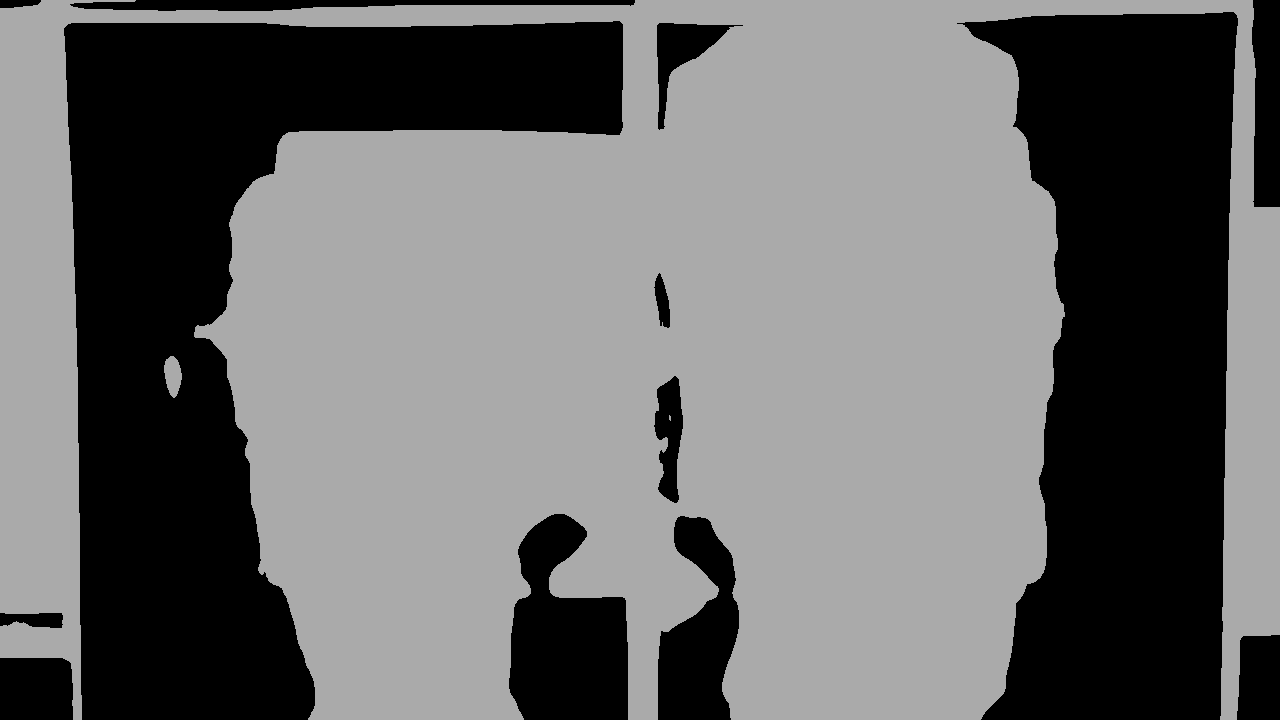
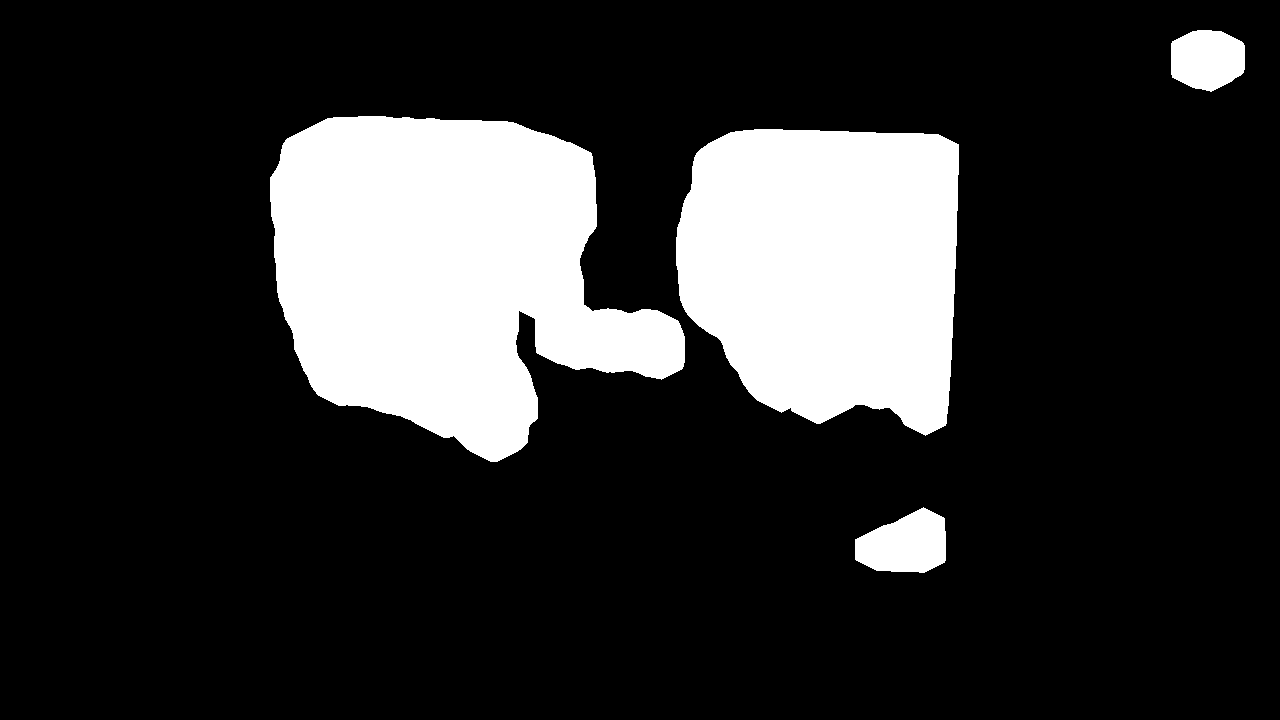
see you tomorrow

diff --git a/test2.py b/test2.py
@@ -27,17 +27,11 @@ CV_CAP_PROP_MODE = 9
 #CV_CAP_PROP_WHITE_BALANCE Currently not supported
 #CV_CAP_PROP_RECTIFICATION
 
-global per25_point1
-global per25_point2
-global per50_point1
-global per50_point2
-global per75_point1
-global per75_point2
-
 class ExperimentMetrics(object):
     square_25=square_50=square_75=square_100=dist_square_25=dist_square_50=dist_square_75=dist_square_100=square_num_bout=square_frame_bout=square_distance_bout=counter = 0
     last_known_point= [0,0]
     square_lap_bout = []
+    per25_point1 = per25_point2 = per50_point1 = per50_point2 = per75_point1 = per75_point2 = [0,0]
 
     # The class "constructor" - It's actually an initializer
     #def __init__():
@@ -73,12 +67,28 @@ frame_per_sec = cap.get(CV_CAP_PROP_FPS)
 print "Frame per sec"
 print frame_per_sec
 
+def draw_rect(pic,height,width,percentage):
+    w = int(width*percentage)
+    x = int((width-width*percentage)/2)
+    h = int(height*percentage)
+    y = int((height-height*percentage)/2)
+    cv2.rectangle(pic,(x,y),(x+w,y+h),(0,255,0),1)
+    return
 
-def analyze(frame,frame_name,frame2,x,y,square_25,square_50,square_75,square_100,
-    dist_square_25,dist_square_50,dist_square_75,dist_square_100,last_known_point,
-    num_bout,frame_bout,distance_bout,lap_bout,counter,exp_obj):
+
+def comp_tuple(mp,pt1,pt2):
+    return mp[0] >= pt1[0] and mp[0] <= pt2[0] and mp[1] >= pt1[1] and mp[1] <= pt2[1]
+
+def dist(pt1,pt2):
+    xd = pt2[0] - pt1[0]
+    yd = pt2[1] - pt1[1]
+    return math.sqrt(xd*xd + yd*yd)
+
+
+def analyze(frame,frame_name,frame2,x,y,exp_obj,width):
     # smooth it
     #cv2.imshow('before',frame)
+    #width = frame2.get(CV_CAP_PROP_FRAME_WIDTH)
     frame3 = cv2.blur(frame,(17,17))
     #cv2.imshow('blur',frame)
     # convert to hsv and find range of colors
@@ -104,7 +114,10 @@ def analyze(frame,frame_name,frame2,x,y,square_25,square_50,square_75,square_100
     draw_rect(frame,height,width,0.7)
     draw_rect(frame,height,width,0.45)
     draw_rect(frame,height,width,0.2)
-    cv2.imshow(frame_name,frame)
+    #x = exp_obj.per25_point1[0]
+    #y = exp_obj.per25_point1[1]
+    cv2.rectangle(frame,tuple(exp_obj.per25_point1),tuple(exp_obj.per25_point2),(255,0,0),1)
+    #cv2.imshow(frame_name,frame)
 
     # finding contour with maximum area and store it as best_cnt
     max_area = 0
@@ -160,7 +173,7 @@ def analyze(frame,frame_name,frame2,x,y,square_25,square_50,square_75,square_100
                 exp_obj.square_num_bout = exp_obj.square_num_bout + 1
                 exp_obj.square_lap_bout.append(0)
             if exp_obj.counter >= bout_threshold:
-                cv2.circle(frame,mp, 5, cv.CV_RGB(255,0,0))
+                cv2.circle(frame,mp, 5, cv.CV_RGB(255,0,255))
                 exp_obj.square_frame_bout = exp_obj.square_frame_bout + 1
                 exp_obj.square_distance_bout = exp_obj.square_distance_bout + distance
                 exp_obj.square_lap_bout[-1] = exp_obj.square_lap_bout[-1] +1
@@ -168,13 +181,13 @@ def analyze(frame,frame_name,frame2,x,y,square_25,square_50,square_75,square_100
             distance = 0
             exp_obj.counter = 0
 
-        if comp_tuple(mp,per25_point1,per25_point2):
+        if comp_tuple(mp,exp_obj.per25_point1,exp_obj.per25_point2):
             exp_obj.dist_square_25 = exp_obj.dist_square_25 + distance
             exp_obj.square_25 = exp_obj.square_25 + 1
-        elif comp_tuple(mp,per50_point1,per50_point2):
+        elif comp_tuple(mp,exp_obj.per50_point1,exp_obj.per50_point2):
             exp_obj.square_50 = exp_obj.square_50 + 1
             exp_obj.dist_square_50 = exp_obj.dist_square_50 + distance
-        elif comp_tuple(mp,per75_point1,per75_point2):
+        elif comp_tuple(mp,exp_obj.per75_point1,exp_obj.per75_point2):
             exp_obj.square_75 = exp_obj.square_75 + 1
             exp_obj.dist_square_75 = exp_obj.dist_square_75 + distance
         else:
@@ -186,11 +199,11 @@ def analyze(frame,frame_name,frame2,x,y,square_25,square_50,square_75,square_100
 
     if in_mid_points == 0:
         mp = exp_obj.last_known_point
-        if comp_tuple(mp,per25_point1,per25_point2):
+        if comp_tuple(mp,exp_obj.per25_point1,exp_obj.per25_point2):
             exp_obj.square_25 = exp_obj.square_25 + 1
-        elif comp_tuple(mp,per50_point1,per50_point2):
+        elif comp_tuple(mp,exp_obj.per50_point1,exp_obj.per50_point2):
             exp_obj.square_50 = exp_obj.square_50 + 1
-        elif comp_tuple(mp,per75_point1,per75_point2):
+        elif comp_tuple(mp,exp_obj.per75_point1,exp_obj.per75_point2):
             exp_obj.square_75 = exp_obj.square_75 + 1
         else:
             exp_obj.square_100 = exp_obj.square_100 + 1
@@ -205,28 +218,34 @@ def analyze(frame,frame_name,frame2,x,y,square_25,square_50,square_75,square_100
 
     # Show it, if key pressed is 'Esc', exit the loop
 
-    cv2.imshow('%sthresh' % (frame_name),thresh2)
-    cv2.imshow('%scontour' % (frame_name),frame2)
+    #cv2.imshow('%sthresh' % (frame_name),thresh2)
+    #cv2.imshow('%scontour' % (frame_name),frame2)
     cv2.imshow('%sframe' % (frame_name),frame)
-    return last_known_point
+    return
 
 _,frame2 = cap.read()
 imgray = cv2.blur(frame2,(15,15))
-imgray = cv2.cvtColor(imgray,cv2.COLOR_BGR2GRAY)
-ret,thresh = cv2.threshold(imgray,100,170,0)
+thresh = cv2.inRange(imgray,np.array((110,110,110)), np.array((300, 300, 300)))
+element = cv2.getStructuringElement(cv2.MORPH_ELLIPSE ,(5,5))
+cv2.erode(thresh,element,thresh,None,6)
+cv2.dilate(thresh,element,thresh,None,10)
+
 cv2.imwrite("gray_tra.png",thresh)
 cv2.imshow('thresh',thresh)
 contours,hierarchy = cv2.findContours(thresh,cv2.RETR_LIST,cv2.CHAIN_APPROX_SIMPLE)
 num_p = 0
 all_x = []
 all_y = []
+actual_width = int(cap.get(3))
+actual_height = int(cap.get(4))
 while not contours:
     _,frame2 = cap.read()
     cv2.imshow('frame2',frame2)
-    imgray = cv2.blur(frame2,(17,17))
-    imgray = cv2.cvtColor(imgray,cv2.COLOR_BGR2GRAY)
+    imgray = cv2.blur(frame2,(15,15))
+    thresh = cv2.inRange(imgray,np.array((110,110,110)), np.array((300, 300, 300)))
+    #imgray = cv2.cvtColor(imgray,cv2.COLOR_BGR2GRAY)
     #cv2.imshow('imgray',imgray)
-    ret,thresh = cv2.threshold(imgray,170,200,0)
+    #ret,thresh = cv2.threshold(imgray,170,200,0)
     #cv2.imwrite("gray_tra.png",thresh)
     #cv2.imshow('thresh',thresh)
     contours,hierarchy = cv2.findContours(thresh,cv2.RETR_LIST,cv2.CHAIN_APPROX_SIMPLE)
@@ -236,7 +255,7 @@ for cnt in contours:
         num_p = num_p + 1
         x = point[0][0]
         y = point[0][1]
-        if x > 20 and x < 640 and y > 20 and y < 460:
+        if x > (actual_width/2)-(actual_width/2)*0.7 and x<(actual_width/2)+(actual_width/2)*0.7 and y > (actual_height/2)-(actual_height/2)*0.7 and y < (actual_height/2)+(actual_height/2)*0.7 : # and y > 20 and y < 460:
             all_x.append(x)
             all_y.append(y)
 print (all_x)
@@ -244,11 +263,10 @@ print (all_y)
 print np.median(all_x)
 print np.median(all_y)
 
-actual_width = int(cap.get(3))
-actual_height = int(cap.get(4))
 
-width = 2*int(np.median(all_x))
-height = 2*int(np.median(all_y))
+
+width = 2*int(np.mean(all_x))
+height = 2*int(np.mean(all_y))
 
 diff_width = actual_width - width
 diff_height = actual_height - height
@@ -258,10 +276,11 @@ frame2 = frame2[0:height,0:width]
 cv2.imwrite("gray_test.png",cv_rect_obj)
 #hsv = cv2.cvtColor(cv_rect_obj,cv2.COLOR_BGR2HSV)
 imgray = cv2.blur(cv_rect_obj,(15,15))
-thresh = cv2.inRange(imgray,np.array((80, 80, 80)), np.array((130, 130, 130)))
+thresh = cv2.inRange(imgray,np.array((110,110,110)), np.array((300, 300, 300)))
+
 cv2.imwrite("gray_test3.png",thresh)
 element = cv2.getStructuringElement(cv2.MORPH_ELLIPSE ,(3,3))
-cv2.erode(thresh,element,thresh,None,1)
+cv2.erode(thresh,element,thresh,None,10)
 cv2.dilate(thresh,element,thresh,None,10)
 contours,hierarchy = cv2.findContours(thresh,cv2.RETR_TREE,cv2.CHAIN_APPROX_SIMPLE)
 #cv2.drawContours(cv_rect_obj,contours,-1,cv.CV_RGB(255,255,0),1)
@@ -277,8 +296,11 @@ frame2 = frame2[y_in:y_in+h_in,x_in:w_in+x_in]
 #cv2.imshow('thresh_first',thresh)
 #element = cv2.getStructuringElement(cv2.MORPH_ELLIPSE ,(3,3))
 imgray = cv2.blur(cv_rect_obj,(15,15))
-imgray = cv2.cvtColor(imgray,cv2.COLOR_BGR2GRAY)
-ret,thresh = cv2.threshold(imgray,170,200,0)
+#imgray = cv2.cvtColor(imgray,cv2.COLOR_BGR2GRAY)
+#ret,thresh = cv2.threshold(imgray,170,200,0)
+thresh = cv2.inRange(imgray,np.array((110,110,110)), np.array((300, 300, 300)))
+cv2.erode(thresh,element,thresh,None,6)
+cv2.dilate(thresh,element,thresh,None,10)
 cv2.imwrite("gray_tra2.png",thresh)
 cv2.imshow('thresh',thresh)
 contours,hierarchy = cv2.findContours(thresh,cv2.RETR_LIST,cv2.CHAIN_APPROX_SIMPLE)
@@ -291,30 +313,15 @@ for cnt in contours:
         num_p = num_p + 1
         x = point[0][0]
         y = point[0][1]
-        if x > 20 and x < 640 and y > 20 and y < 460:
+        if x > (w_in/2)-(w_in/2)*0.7 and x<(w_in/2)+(w_in/2)*0.7 and y > (h_in/2)-(h_in/2)*0.7 and y < (h_in/2)+(h_in/2)*0.7 : # and y > 20 and y < 460:
             all_x.append(x)
             all_y.append(y)
 
 width = int(np.median(all_x))
-height = 2*int(np.median(all_y))
+height = h_in
 
-def draw_rect(pic,height,width,percentage):
-    w = int(width*percentage)
-    x = int((width-width*percentage)/2)
-    h = int(height*percentage)
-    y = int((height-height*percentage)/2)
-    cv2.rectangle(pic,(x,y),(x+w,y+h),(0,255,0),1)
-    return
 
-per75_point1 = [int(width-width*0.7)/2,int((height-height*0.7)/2)]
-per75_point2 = [int(width-width*0.7/2+width*0.7),int((height-height*0.7)/2+height*0.7)]
-per50_point1 = [int(width-width*0.45)/2,int((height-height*0.45)/2)]
-per50_point2 = [int(width-width*0.45/2+width*0.45),int((height-height*0.45)/2+height*0.45)]
-per25_point1 = [int(width-width*0.2)/2,int((height-height*0.2)/2)]
-print "points"
-print per25_point1
-per25_point2 = [int(width-width*0.2/2+width*0.2),int((height-height*0.2)/2+height*0.2)]
-print per25_point2
+
 
 cv_rect_obj1 = cv_rect_obj[0:height,0:width]
 #draw_rect(cv_rect_obj1,height,width,0.7)
@@ -329,13 +336,6 @@ cv_rect_obj2 = cv_rect_obj[0:height,width:width*2]
 
 
 
-def comp_tuple(mp,pt1,pt2):
-    return mp[0] >= pt1[0] and mp[0] <= pt2[0] and mp[1] >= pt1[1] and mp[1] <= pt2[1]
-
-def dist(pt1,pt2):
-    xd = pt2[0] - pt1[0]
-    yd = pt2[1] - pt1[1]
-    return math.sqrt(xd*xd + yd*yd)
 
 #half_width = int(width/2)
 #half_height = int(height/2)
@@ -348,7 +348,7 @@ def dist(pt1,pt2):
 #perc_25_height = int((height-height*0.15)/2)
 
 bout_threshold = 11
-dist_threshold = 3
+dist_threshold = 6
 conversion_pixel_to_cm = 10
 
 ## Points for heatmap
@@ -359,10 +359,10 @@ mid_points = []
 x_right = []
 y_right = []
 
-upper_left_25=upper_left_50=upper_left_75=upper_left=dist_upper_left_25=dist_upper_left_50=dist_upper_left_75=dist_upper_left=left_known_point=upper_left_num_bout=upper_left_frame_bout=upper_left_distance_bout=left_counter = 0
-upper_left_lap_bout = []
-upper_right_25=upper_right_50=upper_right_75=upper_right=dist_upper_right_25=dist_upper_right_50=dist_upper_right_75=dist_upper_right=right_known_point=upper_right_num_bout=upper_right_frame_bout=upper_right_distance_bout=right_counter = 0
-upper_right_lap_bout = []
+#upper_left_25=upper_left_50=upper_left_75=upper_left=dist_upper_left_25=dist_upper_left_50=dist_upper_left_75=dist_upper_left=left_known_point=upper_left_num_bout=upper_left_frame_bout=upper_left_distance_bout=left_counter = 0
+#upper_left_lap_bout = []
+#upper_right_25=upper_right_50=upper_right_75=upper_right=dist_upper_right_25=dist_upper_right_50=dist_upper_right_75=dist_upper_right=right_known_point=upper_right_num_bout=upper_right_frame_bout=upper_right_distance_bout=right_counter = 0
+#upper_right_lap_bout = []
 
 
 frame_number = cap.get(CV_CAP_PROP_POS_FRAMES)
@@ -371,7 +371,24 @@ time_in_msec = 0
 left_known_point = right_known_point = [0,0]
 
 left_object = ExperimentMetrics()
-right_object =ExperimentMetrics()
+right_object = ExperimentMetrics()
+
+width_l = width
+width_r = w_in - width
+
+left_object.per75_point1 = [int(width_l-width_l*0.7)/2,int((height-height*0.7)/2)]
+left_object.per75_point2 = [int((width_l-width_l*0.7)/2+width_l*0.7),int((height-height*0.7)/2+height*0.7)]
+left_object.per50_point1 = [int(width_l-width_l*0.45)/2,int((height-height*0.45)/2)]
+left_object.per50_point2 = [int((width_l-width_l*0.45)/2+width_l*0.45),int((height-height*0.45)/2+height*0.45)]
+left_object.per25_point1 = [int(width_l-width_l*0.2)/2,int((height-height*0.2)/2)]
+left_object.per25_point2 = [int((width_l-width_l*0.2)/2+width_l*0.2),int((height-height*0.2)/2+height*0.2)]
+right_object.per75_point1 = [int(width_r-width_r*0.7)/2,int((height-height*0.7)/2)]
+right_object.per75_point2 = [int((width_r-width_r*0.7)/2+width_r*0.7),int((height-height*0.7)/2+height*0.7)]
+right_object.per50_point1 = [int(width_r-width_r*0.45)/2,int((height-height*0.45)/2)]
+right_object.per50_point2 = [int((width_r-width_r*0.45)/2+width_r*0.45),int((height-height*0.45)/2+height*0.45)]
+right_object.per25_point1 = [int(width_r-width_r*0.2)/2,int((height-height*0.2)/2)]
+right_object.per25_point2 = [int((width_r-width_r*0.2)/2+width_r*0.2),int((height-height*0.2)/2+height*0.2)]
+
 
 while(frame_number < total_number_of_frames):
 #while(frame_number < 250):
@@ -397,18 +414,12 @@ while(frame_number < total_number_of_frames):
 
     left_side = frame[0:height,0:width]
     right_side = frame[0:height,width:width*2]
-    upper_left_25 = upper_left_25 +1
-    analyze(left_side,"left",cv_rect_obj1,x_left,y_left,upper_left_25,upper_left_50,
-        upper_left_75,upper_left,dist_upper_left_25,dist_upper_left_50,dist_upper_left_75,
-        dist_upper_left,left_known_point,upper_left_num_bout,upper_left_frame_bout,
-        upper_left_distance_bout,upper_left_lap_bout,left_counter,left_object)
+    #upper_left_25 = upper_left_25 +1
+    analyze(left_side,"left",cv_rect_obj1,x_left,y_left,left_object,width_l)
     #print left_object.square_50
-    analyze(right_side,"right",cv_rect_obj2,x_right,y_right,upper_right_25,upper_right_50,
-        upper_right_75,upper_right,dist_upper_right_25,dist_upper_right_50,dist_upper_right_75,
-        dist_upper_right,right_known_point,upper_right_num_bout,upper_right_frame_bout,
-        upper_right_distance_bout,upper_right_lap_bout,right_counter,right_object)
+    analyze(right_side,"right",cv_rect_obj2,x_right,y_right,right_object,width_r)
     #print right_object.square_50
-    if cv2.waitKey(33) == 27:
+    if cv2.waitKey(1) == 27:
         break
 
     frame_number = int(frame_number+5)
@@ -442,6 +453,12 @@ w_sheet = wb.get_sheet(0)
 w_sheet.write(r_sheet.nrows+1,0,"Results for " + sample_name)
 ### UPPER LEFT
 w_sheet.write(r_sheet.nrows+2,0,"Left")
+# FIXTIME:
+left_object.square_100 = left_object.square_100 * 5
+left_object.square_75 = left_object.square_75 * 5
+left_object.square_50 = left_object.square_50 * 5
+left_object.square_25 = left_object.square_25 * 5
+
 # TIME
 w_sheet.write(r_sheet.nrows+2,1,(left_object.square_100    / frame_per_sec))
 w_sheet.write(r_sheet.nrows+2,2,(left_object.square_75 / frame_per_sec))
@@ -468,13 +485,19 @@ w_sheet.write(r_sheet.nrows+2,11,(speed_upper_left_50))
 w_sheet.write(r_sheet.nrows+2,12,(speed_upper_left_25))
 # BOUTS
 w_sheet.write(r_sheet.nrows+2,13,(left_object.square_num_bout))
-w_sheet.write(r_sheet.nrows+2,14,(left_object.square_frame_bout / frame_per_sec))
+w_sheet.write(r_sheet.nrows+2,14,(left_object.square_frame_bout*5 / frame_per_sec))
 w_sheet.write(r_sheet.nrows+2,15,(left_object.square_distance_bout/conversion_pixel_to_cm))
 for i,f in enumerate(left_object.square_lap_bout):
-    w_sheet.write(r_sheet.nrows+2,i+16,f)
+    w_sheet.write(r_sheet.nrows+2,i+16,f*5/ frame_per_sec)
 
 ### UPPER RIGHT
 w_sheet.write(r_sheet.nrows+3,0,"Right")
+# FIXTIME:
+right_object.square_100 = right_object.square_100 * 5
+right_object.square_75 = right_object.square_75 * 5
+right_object.square_50 = right_object.square_50 * 5
+right_object.square_25 = right_object.square_25 * 5
+
 # TIME
 w_sheet.write(r_sheet.nrows+3,1,(right_object.square_100    / frame_per_sec))
 w_sheet.write(r_sheet.nrows+3,2,(right_object.square_75 / frame_per_sec))
@@ -501,10 +524,10 @@ w_sheet.write(r_sheet.nrows+3,11,(speed_upper_right_50))
 w_sheet.write(r_sheet.nrows+3,12,(speed_upper_right_25))
 # BOUTS
 w_sheet.write(r_sheet.nrows+3,13,(right_object.square_num_bout))
-w_sheet.write(r_sheet.nrows+3,14,(right_object.square_frame_bout / frame_per_sec))
+w_sheet.write(r_sheet.nrows+3,14,(right_object.square_frame_bout*5 / frame_per_sec))
 w_sheet.write(r_sheet.nrows+3,15,(right_object.square_distance_bout/conversion_pixel_to_cm))
 for i,f in enumerate(right_object.square_lap_bout):
-    w_sheet.write(r_sheet.nrows+3,i+16,f)
+    w_sheet.write(r_sheet.nrows+3,i+16,f*5/ frame_per_sec)
 
 
 wb.save(results_excel)
